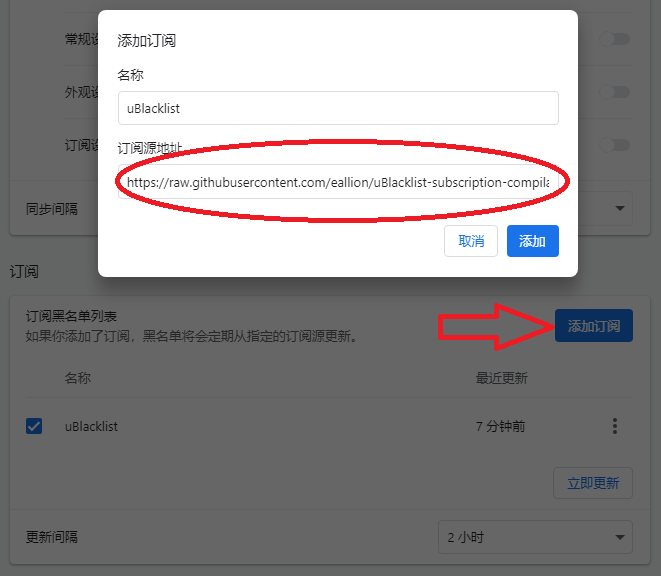
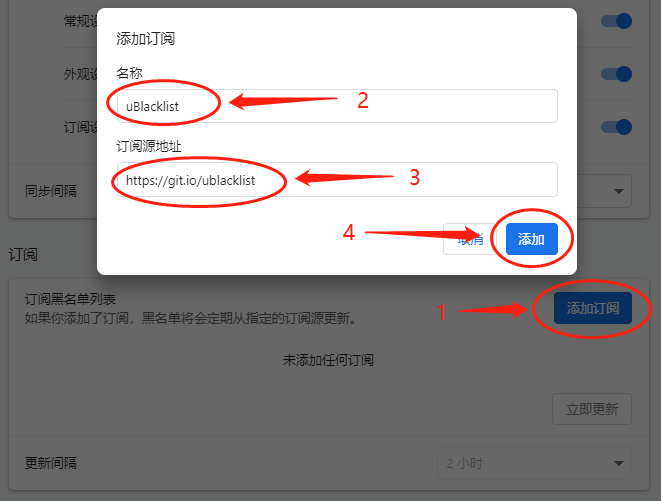
docs: update readme

diff --git a/README.md b/README.md
@@ -21,6 +21,7 @@
 支持的搜索引擎：（由 uBlacklist 插件决定）
 - [Google](https://www.google.com/ncr?gws_rd=ssl)
 - [Bing](https://www.bing.com/)
+- [Brave](https://search.brave.com/)
 - [DuckDuckGo](https://duckduckgo.com/)
 - [Ecosia](https://www.ecosia.org/)
 - [Qwant](https://www.qwant.com/)
@@ -31,32 +32,38 @@
 # 用法：
 
 ### 一、下载 uBlacklist 浏览器插件：
-- Chrome： <https://chrome.google.com/webstore/detail/ublacklist/pncfbmialoiaghdehhbnbhkkgmjanfhe>
-- Firefox： <https://addons.mozilla.org/en-US/firefox/addon/ublacklist/>
-- Edge：<https://chrome.google.com/webstore/detail/ublacklist/pncfbmialoiaghdehhbnbhkkgmjanfhe>
-- Safari (macOS / iOS)：<https://apps.apple.com/us/app/ublacklist-for-safari/id1547912640>
+- Chrome: <https://chrome.google.com/webstore/detail/ublacklist/pncfbmialoiaghdehhbnbhkkgmjanfhe>
+- Firefox: <https://addons.mozilla.org/en-US/firefox/addon/ublacklist/>
+- Edge:<https://chrome.google.com/webstore/detail/ublacklist/pncfbmialoiaghdehhbnbhkkgmjanfhe>
+- Safari (macOS / iOS):<https://apps.apple.com/us/app/ublacklist-for-safari/id1547912640>
 
 ### 二、设置插件
 
-#### 设置 - 订阅：
+#### 1. 设置 - 订阅：
 
 > 订阅黑名单列表：
 
-添加订阅：（git.io 短链接已弃用）
+添加订阅：
+
+- `https://git.io/ublacklist`  
+
+<details>
+    <summary> <code>完整链接</code> </summary>
 
 ```
 https://raw.githubusercontent.com/eallion/uBlacklist-subscription-compilation/main/uBlacklist.txt
 ```
 
-~~`https://git.io/ublacklist`~~
+</details>
 
-如下图所示：
 
-![](https://cdn.jsdelivr.net/gh/eallion/uBlacklist-subscription-compilation@main/tools/x2yWi62OWl.png)
+如下图所示：（先点`添加订阅`）
 
-#### 设置 - 一般：（选填）
+![](tools/x2yWi62OWl.png)
 
->以下网站将不会显示在 Google 的搜索结果中：
+#### 2. 设置 - 常规：（选填）
+
+> 在谷歌的搜索结果中将不会显示以下网站：
 
 ```
 *://*/so.php
@@ -68,7 +75,7 @@ https://raw.githubusercontent.com/eallion/uBlacklist-subscription-compilation/ma
 ```
 如图：
 
-![](https://cdn.jsdelivr.net/gh/eallion/uBlacklist-subscription-compilation@main/tools/PKO0JoJBpU.png)
+![](tools/PKO0JoJBpU.png)
 
 # 添加/删除 域名
 
